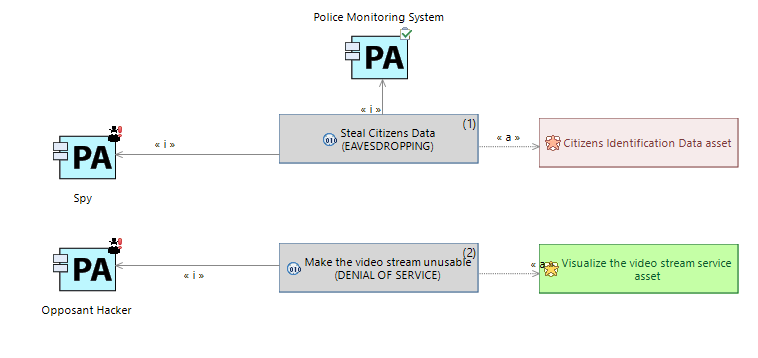
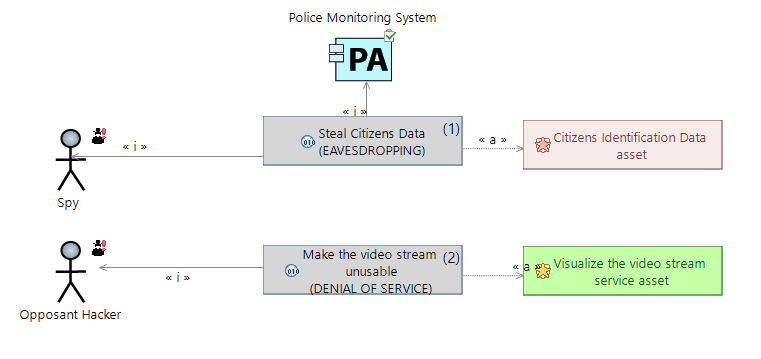
[doc] Update doc
- set isHuman in doc on some elements
 - larger container width in TDB for PA and Threats because on OA the
text was too
large to fit in one row

diff --git a/plugins/org.polarsys.capella.cybersecurity.doc/html/usermanual.html b/plugins/org.polarsys.capella.cybersecurity.doc/html/usermanual.html
@@ -279,7 +279,7 @@
 				<td>Insert/Remove Actors.  Create or delete graphical objects corresponding to already existing Actors. Removing an Actor graphical object from the diagram does not delete the Actor from the model. This tool does not modify the semantic model.</td>
 			</tr>
 		</table>
-		<p>At Operational level, the following tools are available, too: </p>
+		<p>At Operational Analysis level, the following tools are also available:</p>
 		<table border="1">
 			<tr>
 				<td>Operational Entity</td>
@@ -330,42 +330,8 @@
 		<p>
 			<img border="0" src="Images/layers.png"/>
 		</p>
-		<h3 id="Primary_Assets_Layer">Primary Assets Layer</h3>
-		<p>The Primary Assets Layer will display in the diagram the inserted assets. The elements that are threatened by them will be highlighted with the same border color as the asset color. If two or more assets threat the same element and at least two of them are displayed in diagram, the border color of the element will be black.</p>
-		<p>
-			<img border="0" src="Images/pab_diagram_4.png"/> 
-		</p>
-		<p>When the primary asset covers a functional chain, the involved functions and functional exchanges will be highlighted in the same way (if the primary asset is displayed).
-			If FunctionalChains (FC) are displayed in diagram, they will override the colors of Primary Asset Layer!</p>
-		<p>Two tools are available in this layer, under the Cybersecurity section: Primary Assets and Threats.
-			With 
-			<i>Primary Assets Tool</i> the user has the ability to show/hide Primary Assets (Functional and Information) in/from diagram.
-			With 
-			<i>Threats Tool</i> the user can show/hide Threats in/from diagram.
-		</p>
-		<p>
-			<img border="0" src="Images/cybersecurity_tool.png"/> 
-		</p>
-		<h3 id="Supporting_Assets_Layer">Supporting Assets Layer</h3>
-		<p>The Supporting Assets Layer adds decorations to the Components, Component Exchanges and Physical Links of Primary Assets. It highlights the first node component/ actor
-			and the first deploy behavior component that contains at least one function threaten by the primary asset. This components are highlighted with the color of the primary asset (if it's only one) or black (if there are two or many primary assets that cover the same function).</p>
-		<p>
-			<img border="0" src="Images/pab_diagram_5.png"/>
-		</p>
-		<h3 id="Trust_Boundaries_Layer">Trust Boundaries Layer</h3>
-		<p>The Trust Boundaries Layer will change the diagrams appearance: Trusted components and actors will change their background color to white, untrusted components and actors will change their color to red. Communication edges between Trusted and Untrusted elements, so called Trust Boundaries, will be decorated with a small flame icon covered by a red border:</p>
-		<p>
-			<img border="0" src="Images/pab_diagram_2.png"/> 
-		</p>
-		<h3 id="CIAT_Layers">CIAT Layers</h3>
-		<p>Additional layers are provided to focus on Confidentiality, Integrity, Availability and Traceability needs for model elements.
-			When one of these layers is active, elements with a higher respective security needs value are emphasized over elements with
-			a lower security needs value:</p>
-		<p>
-			<img border="0" src="Images/pab_diagram_3.png"/> 
-		</p>
-		<h3 id="Cybersecurity_Decorations_Layer">Cybersecurity Decorations Layer</h3>
-		<p>The Cybersecurity Decorations Layer adds the following decorations to existing diagram elements.</p>
+		<h3 id="Cybersecurity_Decoration_Layer">Cybersecurity Decoration Layer</h3>
+		<p>The Cybersecurity Decoration Layer adds the following decorations to existing diagram elements.</p>
 		<table border="0">
 			<tr>
 				<td>
@@ -398,6 +364,40 @@
 				<td>Someone or something that could affect the product.</td>
 			</tr>
 		</table>
+		<h3 id="Primary_Assets_Layer">Primary Assets Layer</h3>
+		<p>The Primary Assets Layer will display in the diagram the inserted assets. The elements that are threatened by them will be highlighted with the same border color as the asset color. If two or more assets threat the same element and at least two of them are displayed in diagram, the border color of the element will be black.</p>
+		<p>
+			<img border="0" src="Images/pab_diagram_4.png"/> 
+		</p>
+		<p>When the primary asset covers a functional chain, the involved functions and functional exchanges will be highlighted in the same way (if the primary asset is displayed).
+			If FunctionalChains (FC) are displayed in diagram, they will override the colors of Primary Asset Layer!</p>
+		<p>Two tools are available in this layer, under the Cybersecurity section: Primary Assets and Threats.
+			With 
+			<i>Primary Assets Tool</i> the user has the ability to show/hide Primary Assets (Functional and Information) in/from diagram.
+			With 
+			<i>Threats Tool</i> the user can show/hide Threats in/from diagram.
+		</p>
+		<p>
+			<img border="0" src="Images/cybersecurity_tool.png"/> 
+		</p>
+		<h3 id="Supporting_Assets_Layer">Supporting Assets Layer</h3>
+		<p>The Supporting Assets Layer adds decorations to the Components, Component Exchanges and Physical Links of Primary Assets. It highlights the first node component/ actor
+			and the first deploy behavior component that contains at least one function threaten by the primary asset. This components are highlighted with the color of the primary asset (if it's only one) or black (if there are two or many primary assets that cover the same function).</p>
+		<p>
+			<img border="0" src="Images/pab_diagram_5.png"/>
+		</p>
+		<h3 id="CIAT_Layers">CIAT Layers</h3>
+		<p>Additional layers are provided to focus on Confidentiality, Integrity, Availability and Traceability needs for model elements.
+			When one of these layers is active, elements with a higher respective security needs value are emphasized over elements with
+			a lower security needs value:</p>
+		<p>
+			<img border="0" src="Images/pab_diagram_3.png"/> 
+		</p>
+		<h3 id="Trust_Boundaries_Layer">Trust Boundaries Layer</h3>
+		<p>The Trust Boundaries Layer will change the diagrams appearance: Trusted components and actors will change their background color to white, untrusted components and actors will change their color to red. Communication edges between Trusted and Untrusted elements, so called Trust Boundaries, will be decorated with a small flame icon covered by a red border:</p>
+		<p>
+			<img border="0" src="Images/pab_diagram_2.png"/> 
+		</p>
 		<h2 id="Scenario_Diagram">Scenario Diagram</h2>
 		<p>See Capella 
 			<a href="/wiki/../help/topic/org.polarsys.capella.diagrams.doc/html/Diagrams/diagrams.html?#Exchange_Scenario" title="../help/topic/org.polarsys.capella.diagrams.doc/html/Diagrams/diagrams.html?#Exchange_Scenario">Exchange  Scenario Documentation</a><span class="github-link">
